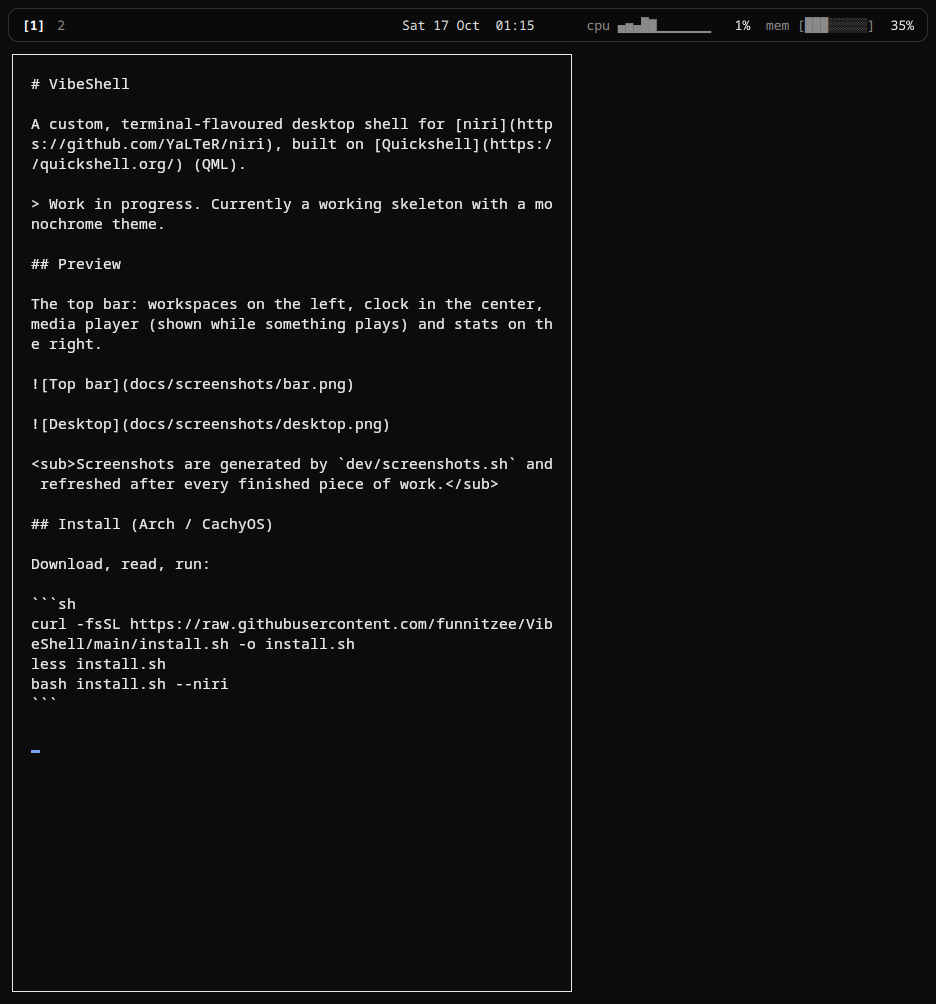
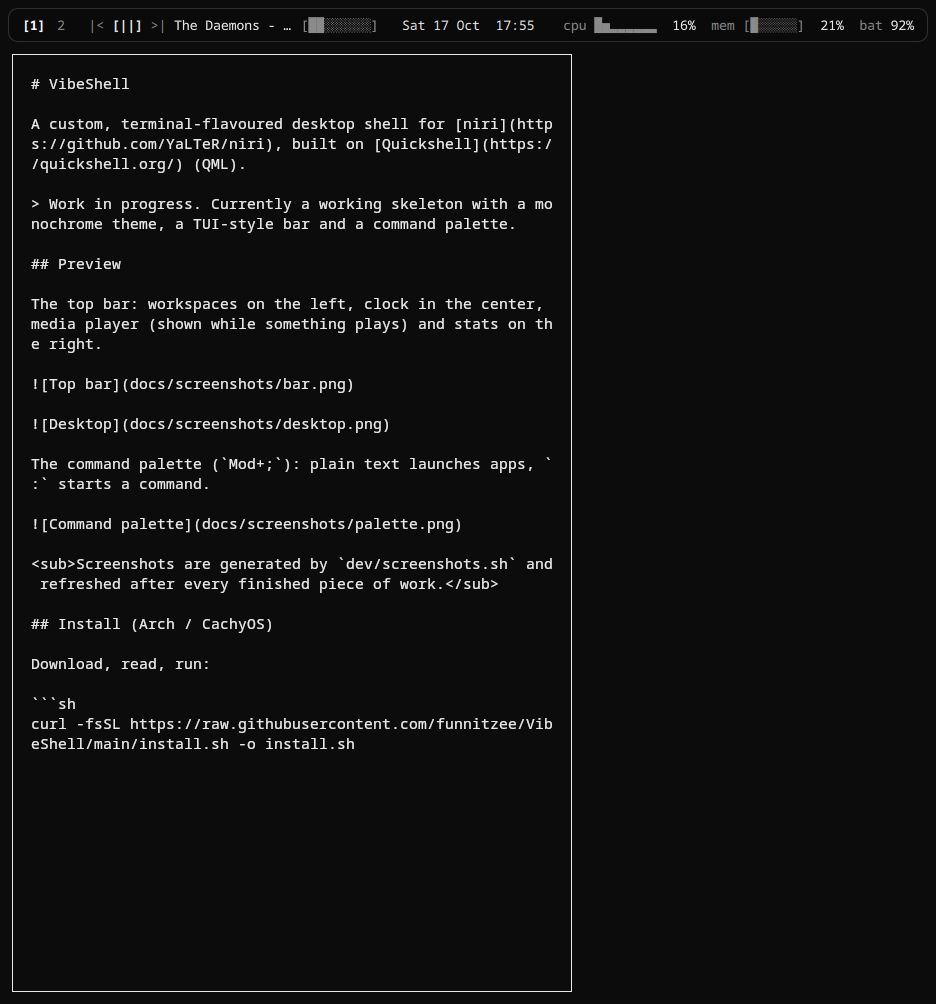
Document the dashboard and palettes, add a Mod+P dashboard bind

diff --git a/README.md b/README.md
@@ -2,7 +2,7 @@
 
 A custom, terminal-flavoured desktop shell for [niri](https://github.com/YaLTeR/niri), built on [Quickshell](https://quickshell.org/) (QML).
 
-> Work in progress. Currently a working skeleton with a monochrome theme, a TUI-style bar and a command palette.
+> Work in progress. Currently a monochrome-by-default theme, a TUI-style bar, a command palette, a dashboard and a volume OSD.
 
 ## Preview
 
@@ -15,6 +15,10 @@ The top bar: workspaces on the left, clock in the center, media player (shown wh
 The command palette (`Mod+;`): plain text launches apps, `:` starts a command.
 
 ![Command palette](docs/screenshots/palette.png)
+
+The dashboard (`Mod+P` or `:dash`): LED clock, calendar, system panel and now playing.
+
+![Dashboard](docs/screenshots/dashboard.png)
 
 <sub>Screenshots are generated by `dev/screenshots.sh` and refreshed after every finished piece of work.</sub>
 
@@ -50,6 +54,8 @@ Press `Mod+;` (bound by the installer's niri snippet). Type to search applicatio
 | `:set <key> <value>` | change a setting live and save it, e.g. `:set bar.gap 12` |
 | `:term` | open a terminal |
 | `:reload` | reload the shell |
+| `:dash` | open the dashboard |
+| `:theme [name\|next]` | switch colour palette (`next` cycles) |
 
 `Enter` runs, `Tab` completes, `Up`/`Down` (or `Ctrl+P`/`Ctrl+N`) move, `Esc` closes.
 It can also be driven from a script: `quickshell ipc -p <shell dir> call palette open ":"`
@@ -70,7 +76,9 @@ User settings live in `~/.config/vibeshell/settings.json` and override
 }
 ```
 
-Palettes are JSON files in `shell/palettes/`.
+Palettes are JSON files in `shell/palettes/`: `monochrome`, `catppuccin-mocha`,
+`tokyo-night`, `rose-pine`, `nord`, `dracula` and `kanagawa`. Switch at runtime with
+`:theme <name>` (or cycle with `:theme next`); the choice is saved to `settings.json`.
 
 ## Development
 
@@ -86,9 +94,11 @@ redirected to `/tmp/vibeshell-dev`, so your real config is never touched.
 install.sh   Installer
 shell/       Quickshell config (entry point: shell/shell.qml)
   bar/       Bar and its modules
+  dashboard/ Dashboard: clock, calendar, system panel, now playing
+  osd/       On-screen display (volume)
   palette/   Command palette (UI and command backend)
-  components/ Reusable pieces: TuiFrame, Spark, Gauge, Txt
-  services/  niri workspaces, system stats
+  components/ Reusable pieces: TuiFrame, Spark, Gauge, Txt, BigClock, Eq
+  services/  Singletons: niri, media, audio, network, power, stats
   palettes/  Color palettes
   defaults/  Shipped default settings
 dev/         Nested niri sandbox and screenshot generator
@@ -101,7 +111,9 @@ docs/        Screenshots used in this README
 - [x] Installer
 - [x] TUI building blocks: character-cell frames, sparklines, gauges
 - [x] Vim-style command palette (apps + commands)
+- [x] Color palettes, switchable at runtime (`:theme`)
+- [x] TUI dashboard: clock, calendar, system panel, now playing
+- [x] Volume OSD and media keys
 - [ ] Settings window
-- [ ] Color palettes, switchable at runtime
-- [ ] Launcher, notifications, OSD, quick settings, lock screen, greeter
+- [ ] Launcher, notifications, quick settings, lock screen, greeter
 - [ ] App theming (kitty, GTK, VS Code, ...)
